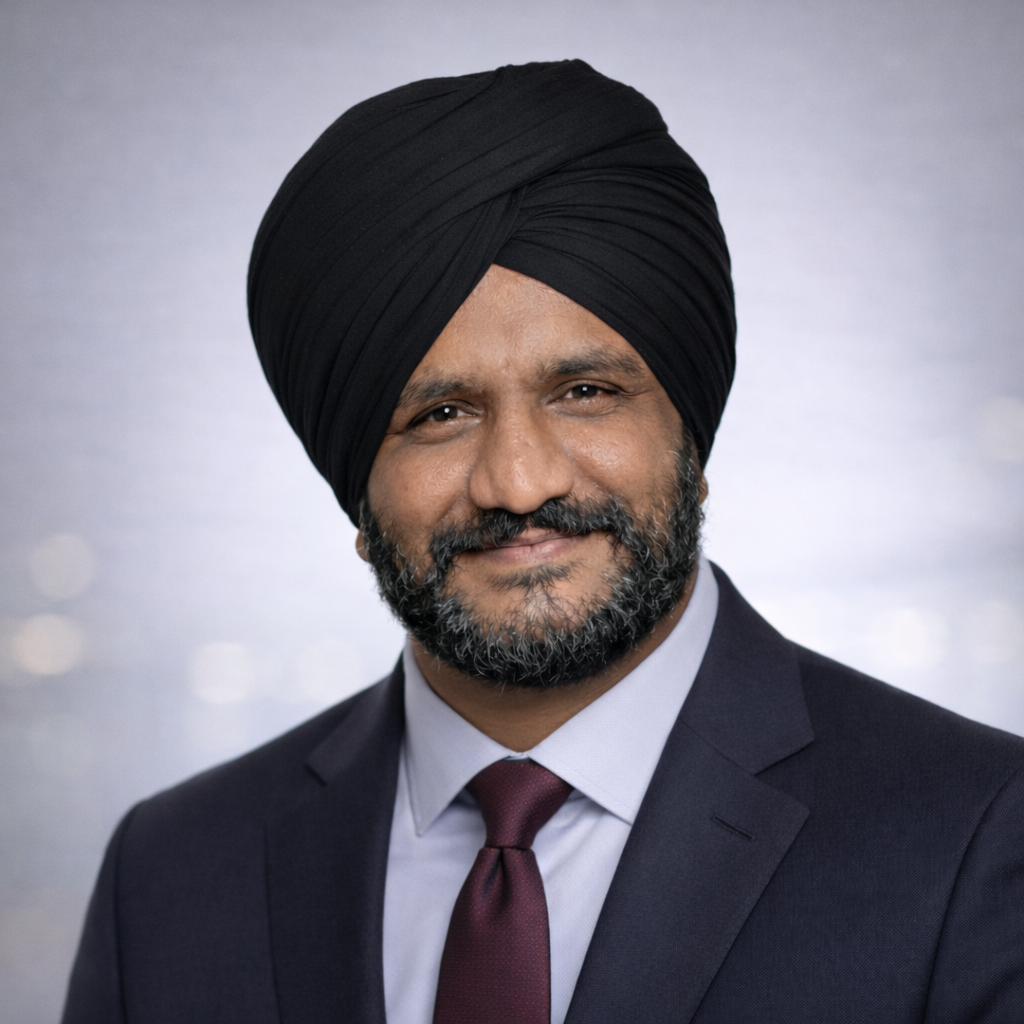
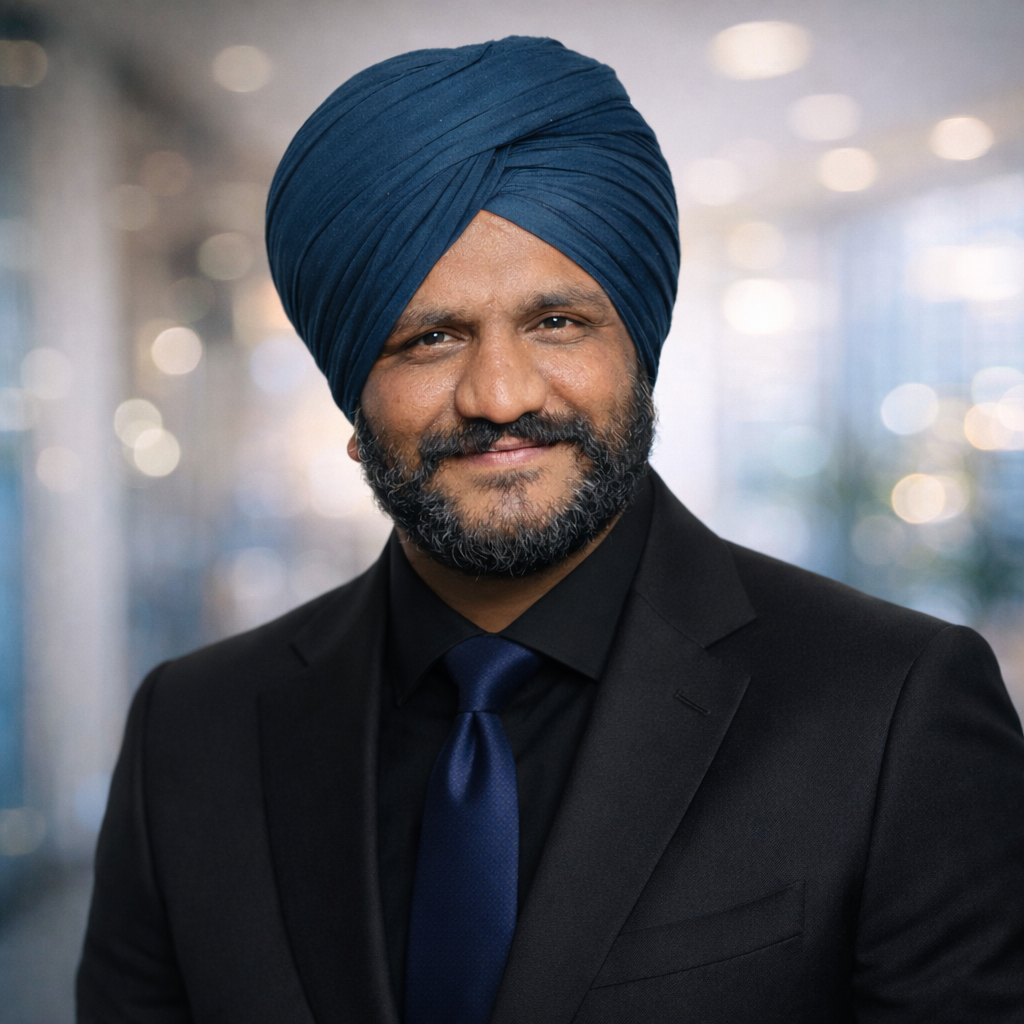
New photos added

diff --git a/src/components/Team.tsx b/src/components/Team.tsx
@@ -4,7 +4,7 @@ import xIcon from "@/assets/x-icon.jpg";
 import team1 from "@/assets/team1.png";
 import team2 from "@/assets/team2.png";
 import team3 from "@/assets/team3.png";
-import team4 from "@/assets/team-4.jpg";
+import team4 from "@/assets/team4.png";
 import team5 from "@/assets/team5.png";
 import team6 from "@/assets/team6.png";
 import team7 from "@/assets/team7.png";
@@ -19,8 +19,9 @@ const Team = ({ onNavigate }) => {
       name: "Kapil Dhawan",
       title: "Founder & CEO",
       image: team1,
+      description: "Visionary leader driving the company's strategic direction and growth.",
       social: {
-        linkedin: "#",
+        linkedin: "https://www.linkedin.com/in/kapil-dhawan-91128a42/",
       },
     },
     {
@@ -28,8 +29,9 @@ const Team = ({ onNavigate }) => {
       name: "Mohit Asija",
       title: "CFO & Managing Director",
       image: team2,
+      description: "Financial expert and strategic leader ensuring the company's fiscal health and operational excellence.",
       social: {
-        linkedin: "#",
+        linkedin: "https://www.linkedin.com/in/mohit-asija-987a5140/",
       },
     },
     {
@@ -37,6 +39,7 @@ const Team = ({ onNavigate }) => {
       name: "Sahil Dhawan",
       title: "Business Manager",
       image: team3,
+      description: "Experienced manager overseeing business operations and driving efficiency.",
       social: {
         linkedin: "#",
       },
@@ -46,8 +49,9 @@ const Team = ({ onNavigate }) => {
       name: "Diwanshu Tangri",
       title: "Project Manager",
       image: team4,
+      description: "Detail-oriented project manager ensuring timely and successful project delivery.",
       social: {
-        linkedin: "#",
+        linkedin: "https://www.linkedin.com/in/diwanshu-tangri-45667b7b/",
       },
     },
     {
@@ -55,8 +59,9 @@ const Team = ({ onNavigate }) => {
       name: "Sunil Bhatia",
       title: "Project Manager",
       image: team8,
+      description: "Dedicated project manager focused on delivering high-quality results for our clients.",
       social: {
-        linkedin: "#",
+        linkedin: "https://www.linkedin.com/in/sunil-b-2a0800a7/",
       },
     },
     {
@@ -64,6 +69,7 @@ const Team = ({ onNavigate }) => {
       name: "Shivali Sharma",
       title: "Project Manager",
       image: team5,
+      description: "Proactive project manager with a knack for creative problem-solving and team collaboration.",
       social: {
         linkedin: "#",
       },
@@ -71,10 +77,11 @@ const Team = ({ onNavigate }) => {
     {
       id: 7,
       name: "Nardeep Sandhu",
-      title: "Senior Android Developer",
+      title: "Operational Manager",
       image: team6,
+      description: "Streamlining workflows and enhancing productivity through effective operational strategies.",
       social: {
-        linkedin: "#",
+        linkedin: "https://www.linkedin.com/in/nardeep-sandhu-829b5169/",
       },
     },
     {
@@ -82,8 +89,9 @@ const Team = ({ onNavigate }) => {
       name: "Ashish Bhardwaj",
       title: "Operational Manager",
       image: team7,
+      description: "Focused on optimizing operational processes and ensuring smooth business functions.",
       social: {
-        linkedin: "#",
+        linkedin: "https://www.linkedin.com/in/ashish-bhardwaj-257b50123/",
       },
     },
   ];
@@ -143,6 +151,9 @@ const Team = ({ onNavigate }) => {
 
               {/* Title */}
               <p className="text-primary font-poppins mb-3">{member.title}</p>
+              <p className="text-sm text-muted-foreground font-montserrat leading-relaxed mb-4">
+                {member.description}
+              </p>
 
               {/* Social Links */}
               <div className="flex items-center justify-center gap-3">
@@ -150,6 +161,7 @@ const Team = ({ onNavigate }) => {
                   href={member.social.linkedin}
                   className="w-8 h-8 rounded-full bg-background flex items-center justify-center hover:bg-secondary transition-colors"
                   aria-label={`${member.name}'s LinkedIn`}
+                  target="_blank"
                 >
                   <Linkedin className="w-4 h-4 text-black" />
                 </a>
